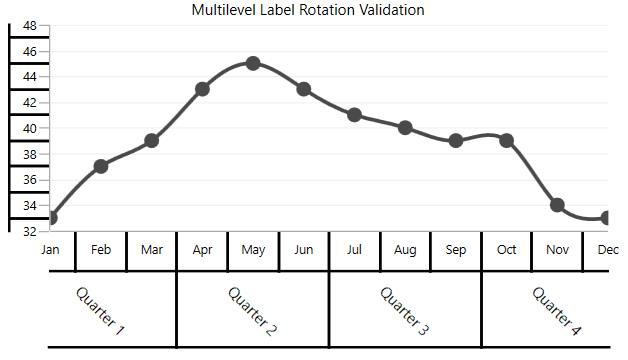
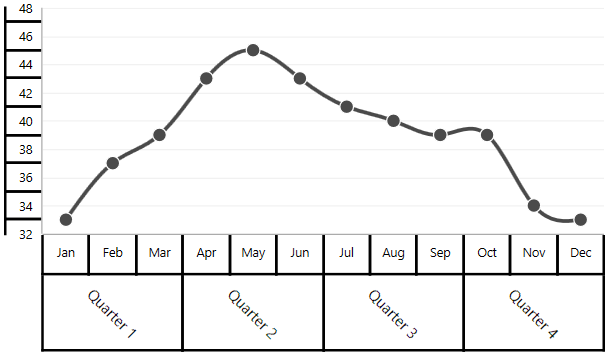
Added the api links and modified the output images.

Changed region(s): [[0.0, 0.0, 0.9935, 0.986], [0.2794, 0.0, 0.683, 0.0616]]

diff --git a/wpf/Charts/Exporting.md b/wpf/Charts/Exporting.md
@@ -26,6 +26,11 @@ The following screenshot illustrates the chart, which has to be exported.
 
 The chart provides the following overloaded methods for exporting it as an image.
 
+The following APIs are used to export the chart as an image:
+
+* [`Save(string filename)`](https://help.syncfusion.com/cr/wpf/Syncfusion.UI.Xaml.Charts.ChartBase.html#Syncfusion_UI_Xaml_Charts_ChartBase_Save_System_String_) - Export the SfChart into image with the given filename to the mentioned location.
+* [`Save(Stream, BitmapEncoder)`](https://help.syncfusion.com/cr/wpf/Syncfusion.UI.Xaml.Charts.ChartBase.html#Syncfusion_UI_Xaml_Charts_ChartBase_Save_System_IO_Stream_System_Windows_Media_Imaging_BitmapEncoder_) - Export the SfChart into image using the stream with provided bitmap encoder value.
+
 ### Save(string filename)
 
 This method will export chart to the specified location with the given name. By default, i.e., if you didn’t mention any specific location. It will be exported to “../bin/debug” location.
@@ -91,6 +96,11 @@ chart.Save("Chart.png");
 ## Export to XPS
 
 Chart has built-in support for exporting to the XPS file format, providing scalable, print-ready output without any loss of quality when zooming or printing.
+
+The following APIs are used to export the chart as an XPS file:
+
+* `SaveAsXps(string fileName)` - Exports the SfChart as an XPS file withdesired location.
+* `SaveAsXps(Stream stream)` - Exports the SfChart as an XPS file using the specified stream.
 
 ### SaveAsXps(string fileName)
 

diff --git a/wpf/Charts/Axis.md b/wpf/Charts/Axis.md
@@ -3390,7 +3390,7 @@ Multi-level label rotation angle can be customized using the [`MultiLevelLabelRo
 {% highlight xaml %}
 
 <chart:SfChart.PrimaryAxis>
-    <chart:CategoryAxis ShowLabelBorder="True" LabelBorderWidth="2" MultiLevelLabelRotationAngle="45">
+    <chart:CategoryAxis ShowLabelBorder="True" MultiLevelLabelRotationAngle="45">
         <chart:CategoryAxis.MultiLevelLabels>
             <chart:ChartMultiLevelLabel Start="-0.5" End="2.5" Text="Quarter 1"/>
             <chart:ChartMultiLevelLabel Start="2.5" End="5.5" Text="Quarter 2"/>
@@ -3407,7 +3407,6 @@ Multi-level label rotation angle can be customized using the [`MultiLevelLabelRo
 CategoryAxis primaryAxis = new CategoryAxis()
 {
     ShowLabelBorder = true,
-    LabelBorderWidth = 2,
     MultiLevelLabelRotationAngle = 45
 };
 
